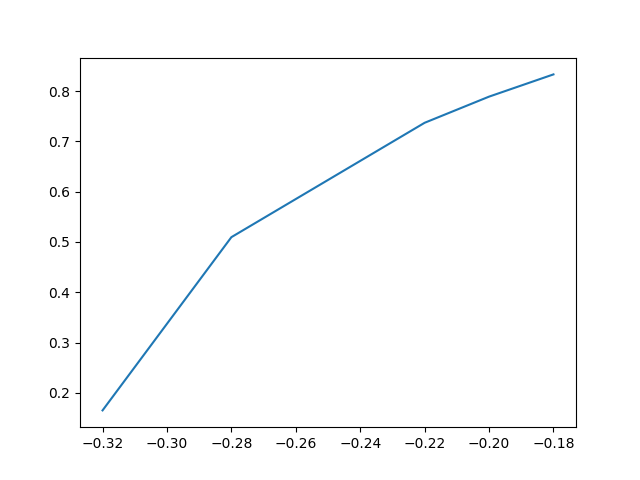
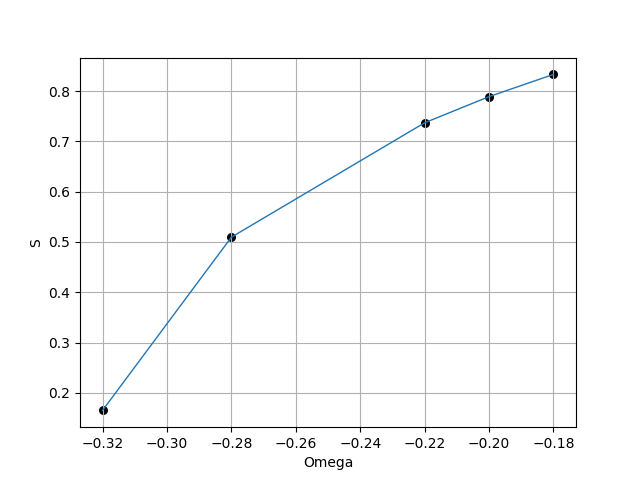
feat: some rework

diff --git a/main/solution.py b/main/solution.py
@@ -8,12 +8,12 @@ import matplotlib.pyplot as plt
 N = 100
 DJ = Decimal("0.16")
 SQDJ = Decimal(sqrt(1 + DJ**2))
-OMEGA = Decimal("-0.30")
+OMEGA = Decimal("-0.28")
 B = Decimal("0.15")
 EPS = H = Decimal("0.000001")
-S = [0] * (N+1)
+S = [Decimal(0.0)] * (N+1)
 DELIMITER = 2_000_000_000  # double results[2000000000]
-s0 = Decimal("0.822541021556128")
+s0 = Decimal("0.509457626013908")
 temp = Decimal(Decimal("0.4") / (DELIMITER))
 
 
@@ -21,19 +21,19 @@ temp = Decimal(Decimal("0.4") / (DELIMITER))
 
 
 def plot(x, y):
-    x = [i for i in prange(x)]
-    xmax = x[y.index(max(y))]
+    """x = [i for i in prange(x)]
+    xmax = x[y.index(max(y))]"""
     fig, graph = plt.subplots()
     graph.scatter(x, y, 30, 'black')
     graph.plot(x, y, linewidth=1.0)
-    graph.spines['bottom'].set_position('center')  # type: ignore
+    """graph.spines['bottom'].set_position('center') """
     graph.set_ylabel('S')
-    graph.set_xlabel('N')
-    graph.annotate(f'Local max = {max(y)}', xy=(xmax, max(y)), xytext=(xmax, max(y) + Decimal(0.10)),
+    graph.set_xlabel('Omega')
+    """graph.annotate(f'Local max = {max(y)}', xy=(xmax, max(y)), xytext=(xmax, max(y) + Decimal(0.10)),
                    arrowprops=dict(facecolor='black',
                                    shrink=0.05, headlength=5, width=2),
                    )
-    graph.set_ylim(-max(y) - Decimal('0.15'), max(y) + Decimal('0.15'))
+    graph.set_ylim(-max(y) - Decimal('0.15'), max(y) + Decimal('0.15'))"""
     graph.grid(True)
     plt.show()
 
@@ -41,7 +41,7 @@ def plot(x, y):
 """Запись в файл"""
 
 
-def writef(S):
+def writef(S: list):
     with open(f'e_N({N+1})_Omega{OMEGA}_B{B}_dj{DJ*100}_h{H}.nb', 'a+') as file:
         file.write(
             f'text=\"parameters: omega={OMEGA}, N(real)=({N+1}), B={B}, dj={DJ}, h={H}, S[N]={S[0]} (EDGE algorithm)\"\ndataS = {{')
@@ -57,7 +57,7 @@ def writef(S):
 """Расчет цепочки"""
 
 
-def counter(start, N, H=Decimal("0.0")):
+def counter(start: Decimal, N: int, H=Decimal("0.0")):
     S[0] = Decimal(str(start)).quantize(
         Decimal("1.000000000000000"), ROUND_HALF_UP)
     a = OMEGA * S[0] + (2 * B * S[0] + H) * Decimal((sqrt(1 - S[0]**2)))
@@ -72,32 +72,41 @@ def counter(start, N, H=Decimal("0.0")):
             break
 
 
-def check(last, prelast):
+"""Проверка на сходимость"""
+
+
+def check(last: Decimal, prelast: Decimal) -> bool:
     temp = fabs(Decimal(1.0) - (last * Decimal(sqrt(1 - prelast**2)) -
                                 (prelast + 2 * B * last) * Decimal(sqrt(1 - last**2))) / (last * OMEGA))
- # type: ignore
-    if temp < EPS:
-        return 1
-    else:
-        return 0
+    return temp < EPS
+
+
+"""Получение бризерного решения"""
 
 
 def get_breather(amount: int, N: int):
     for i in prange(amount):
-        counter(s0 + temp * i, N)  # type: ignore
+        counter(s0 + temp * i, N+1)
         if check(S[N], S[N - 1]):
             print(s0 + temp * i)
-            counter(i, N, H)
+            counter(s0 + temp * i, N+1, H)
             writef(S)
+            plot(S, N+1)
+
+
+"""Расчет энергии"""
+
+
+def energy():
+    pass
 
 
 def main():
     print(f'initial: {s0}, start max: {s0 + temp * DELIMITER}')
     print(f'Omega = {OMEGA}, eps = {EPS}\n')
-
-    plt.plot([-0.32, -0.28, -0.22, -0.2, -0.18], [0.165036570213893, 0.509457626013908,
-                                                  0.736884391556128, 0.788864920607633, 0.833085737950537])
-    plt.show()
+    get_breather(DELIMITER, N)
+    plot([-0.32, -0.28, -0.22, -0.2, -0.18], [0.165036570213893, 0.509457626013908,
+                                              0.736884391556128, 0.788864920607633, 0.833085737950537])
 
 
 if __name__ == "__main__":
